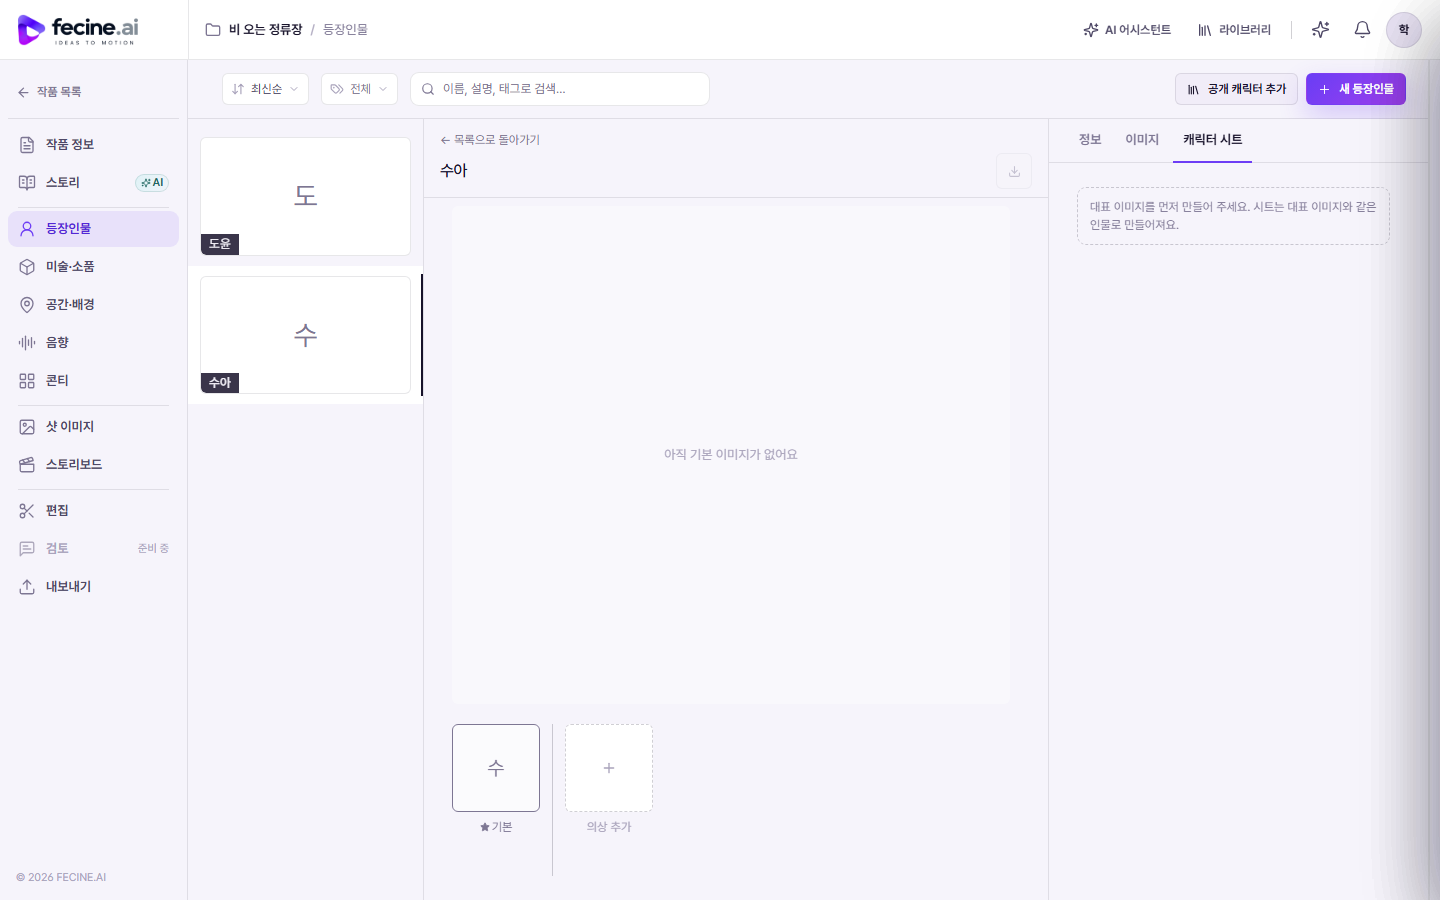
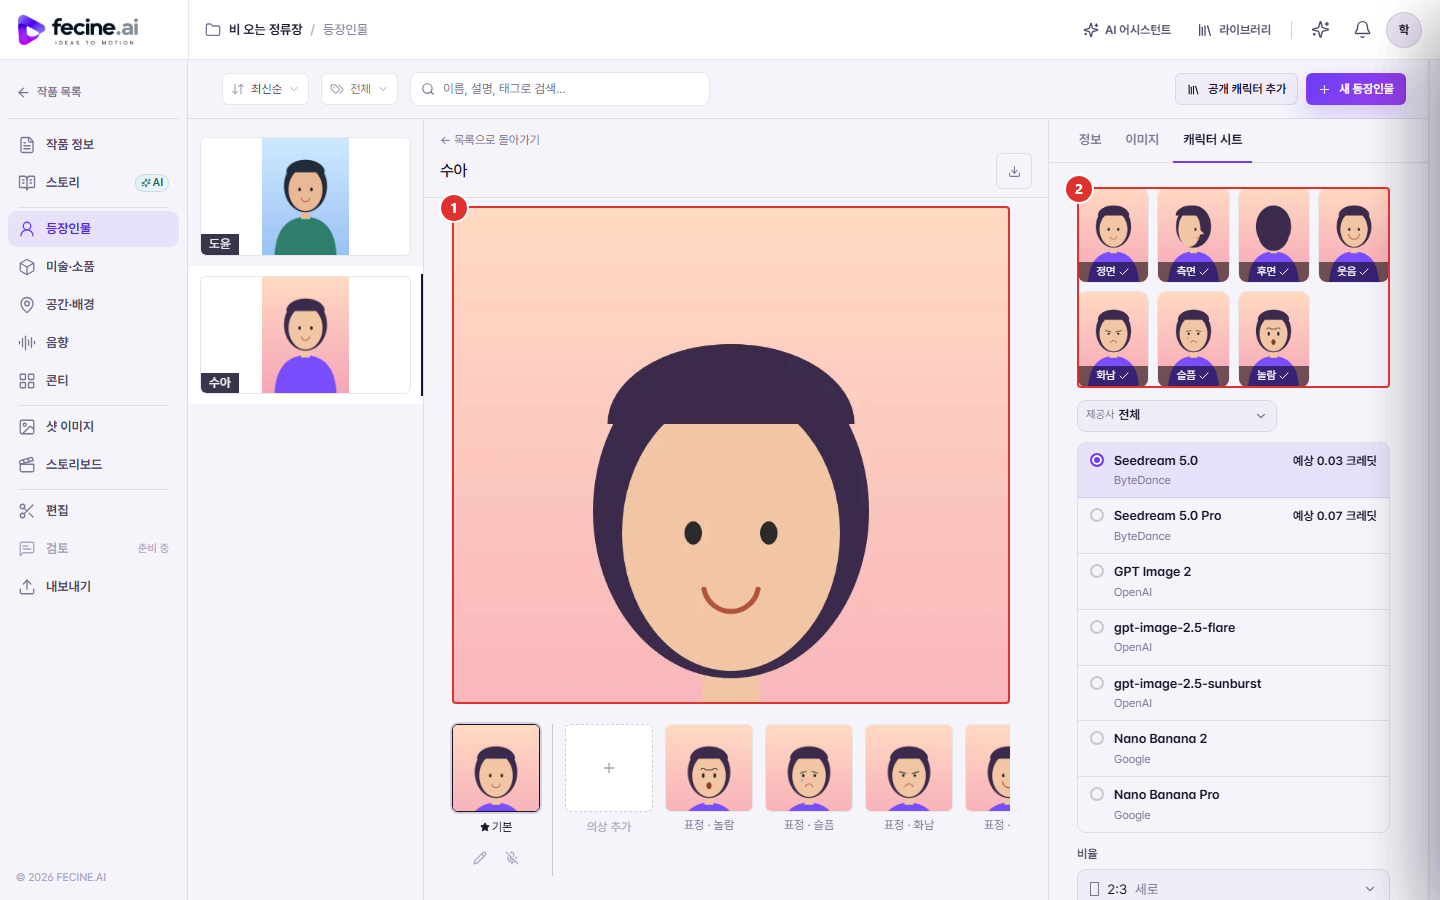
남은 화면 캡처 추가: 채널 게시·AI 작업·캐릭터 시트와 실습 4 프리소스·공개 캐릭터 화면 (#3)
- 30장 채널 게시(위/아래 2장), 32장 AI 작업 패널, 22장 캐릭터 시트(칸이 채워진 화면)
- 실습 4: 프리소스 목록, 원작 상세·읽기, 에피소드·씬 추출 질문 흐름, 진행 상황, 공개 캐릭터 추가 패널·확인 창
- 변경 이력·확인 필요 목록의 캡처 상태 갱신

diff --git a/docs/about/versions.md b/docs/about/versions.md
@@ -28,6 +28,7 @@ FECINE이 업데이트되어 화면이 바뀌면, 바뀐 장과 [부록 A·D](/v
 | 날짜 | 교재 | FECINE 기준 | 변경 |
 | --- | --- | --- | --- |
 | 2026-11-10 | V1 1.0.0-preview | v1.74.0 → v1.82.0 | FECINE 서비스 변경 반영: 스토리 화면 탭(`스토리 편집`·`작품 자료`·`진행 상황`)과 스토리·샷 이미지·스토리보드의 공통 화면(`S#n` 씬 목록, `등장 요소`·`스토리` 탭), AI 어시스턴트의 단계별 요청(`에피소드·씬 추출`·`등장 요소 만들기`·`촬영 설계 만들기`·`씬 추가`), 모델 목록의 가격 순 정렬·경로(Standard·Enterprise·Global)·공식가 할인·모델 팁, 생성 버튼 `생성 · 예상 크레딧`, 새 작품의 작품 설정 패널, 로그인 사이드바 순서, 5개 언어, 크레딧 충전 2단계 패널·FEPAY 결제, 참조 이미지 자동 맞춤, 내보내기 파일 이름·편집 프로젝트 설명. 없어진 기능(대사에서 자막 자동 생성, 다음 프레임 후보 버튼, 옛 결제) 설명 삭제. 새 **실습 4 프리소스 원작으로 만드는 영상**(원작 소설·첫 영상 튜토리얼, 공개 캐릭터를 작품에 추가해 사용) 추가. 옛 화면 캡처는 다시 찍을 때까지 유지 |
+| 2026-11-11 | V1 1.0.0-preview | v1.82.0 | 캡처 보강: 채널 게시(30장), AI 작업(32장), 캐릭터 시트(22장)와 실습 4의 프리소스·공개 캐릭터 추가 화면 추가. 캡처의 요금·구성 비용은 촬영 환경 값이며 본문 요금은 모델·가격 페이지 기준 |
 | 2026-11-06 | V1 1.0.0-preview | v1.38.0 → v1.74.0 | FECINE 서비스 변경 반영: 화면 용어 통일(회차 → 에피소드, 장면 → 씬, 원고 → 씬 대본, AI 구성 → `스토리`의 `✦ AI 자동생성` 탭, 장면 프레임 → 샷 이미지, 작품 안 캐릭터 → 등장인물, 오디오 → 음향), 제작 메뉴 12개와 새 공개 홈·사이드 메뉴, 작품 위키·씬 합치기/나누기/옮기기·연출 노트·등장 요소·앞 씬과 이어짐, 스토리보드의 영상 프롬프트 만들기, `크레딧 · 사용량` 화면, Seedance Global·Kling v3·Wan Global 모델 정보. 없어진 기능(템플릿으로 저장, 내보내기 화면 맞춤, 편집 화면 클립 다운로드, 개인 캐릭터 라이브러리) 설명 삭제. 옛 화면 캡처는 다시 찍을 때까지 유지 |
 | 2026-11-01 | V1 1.0.0-preview | v1.38.0 | 내부 작업 메모 정리: 강사 가이드의 ‘다음 단계(작업 메모)’, 기능 요약·1장의 내부 문서 참조, 캡처 설명의 촬영 환경 메모 삭제. 실제 서비스와 대조할 곳에 ‘확인 필요’ 표시(12·15·18·22·29장, 부록 A.3, 강사 가이드 수업안, 모델 가이드). 모델 페이지의 ‘검증 필요’를 ‘확인 필요’로 통일 |
 | 2026-11-01 | V1 1.0.0-preview | v1.38.0 | 초보자 눈높이 점검 반영: 오탈자 16곳, 처음 나오는 용어 풀이, 화면 진입 경로, 이론 장 예제 안내, 용어집 보강(68개). 없어진 캐릭터 저장 기능 설명 삭제, 음성 파일 형식(MP3·WAV·AAC·OGG, .m4a 불가) 안내. 자주 바뀌는 세부 설정·선택지 목록을 줄이고 ‘FECINE 기능 정리’ 페이지는 비공개로 전환 |

diff --git a/docs/about/verification.md b/docs/about/verification.md
@@ -32,8 +32,8 @@ revised: "2026-11-10"
 
 | 상태 | 캡처 |
 | --- | --- |
-| 교체 완료 (v1.82.0 화면, 2026-11-11 촬영) | 01-01~01-03, 03-01, 04-01, 04-03, 04-04, 05-01, 06-01~06-03, 07-01, 07-02, 08-00, 08-01, 09-01, 09-02, 12-01(대표 이미지 없는 상태), 13-01, 15-01, 16-01, 18-01, 19-01, 20-02, 23-01, 25-01, 27-02, 29-01, 29-02, 31-01 |
-| 캡처 준비 중 (환경 부족으로 못 찍음) | 30-01(채널 설정 필요), 32-01(AI 작업 항목 필요), 실습 4의 공개 캐릭터 추가 화면(공개 캐릭터가 등록된 환경 필요). 실습 4의 프리소스 화면 캡처는 원작 표지·줄거리의 사용 허락을 확인한 뒤 추가 |
+| 교체 완료 (v1.82.0 화면, 2026-11-11 촬영) | 01-01~01-03, 03-01, 04-01, 04-03, 04-04, 05-01, 06-01~06-03, 07-01, 07-02, 08-00, 08-01, 09-01, 09-02, 12-01, 13-01, 15-01, 16-01, 18-01, 19-01, 20-02, 23-01, 25-01, 27-02, 29-01, 29-02, 30-01, 30-01b, 31-01, 32-01 |
+| 캡처 준비 중 | 실습 4의 튜토리얼 2/5 카드(로컬 튜토리얼이 테스트 대본이라 운영 튜토리얼에서 촬영 필요) |
 | 게시 (실제 서비스 화면과 대조 확인 필요) | 01-01 ~ 25-01 중 위를 뺀 나머지 |
 
 ## 4. 생성 결과 (자료 준비 중)

diff --git a/docs/v1/chapters/32-troubleshooting.md b/docs/v1/chapters/32-troubleshooting.md
@@ -46,7 +46,9 @@ result: "문제 해결 카드 (한 장 요약)"
 2. **진행 중**에서 `대기 중 · 경과 시간`, `생성 중 · 경과 시간`을 봅니다. 차례를 기다리는 요청에는 앞선 요청이 끝나면 바로 시작한다는 안내가 보입니다. 필요 없는 작업은 **작업 취소**합니다.
 3. **최근**에서 `실패 · 걸린 시간` 항목을 열고 **오류 세부 정보**를 읽습니다.
 
-**[캡처 32-01]** <Badge type="warning" text="캡처 준비 중" /> AI 작업 — ① 진행 중 ② 최근 ③ 실패 항목 ④ 오류 세부 정보 ⑤ 복사
+**[캡처 32-01]** AI 작업 — ① 진행 중 ② 최근 ③ 실패 항목 ④ 오류 세부 정보 ⑤ 복사
+
+![캡처 32-01](/images/v1/captures/cap-32-01.png)
 
 ::: info NOTE
 **작업 취소**는 요청이 AI 회사(제공자)에 접수되기 전, 또는 접수 여부를 알 수 없을 때만 할 수 있습니다. 제공자가 이미 만들기 시작한 작업은 중간에 멈출 수 없으니 끝날 때까지 기다립니다. 접수 여부를 알 수 없는 영상 요청은 2시간이 지나면 과금 없이 자동으로 종료됩니다.

diff --git a/docs/v1/chapters/22-character-sheets.md b/docs/v1/chapters/22-character-sheets.md
@@ -52,7 +52,7 @@ result: "수아 캐릭터 시트(정면·측면·후면·표정) (결과 22-A)"
 
 - 등장인물의 `보이스`는 23장에서 연결합니다.
 
-**[캡처 12-01]** 캐릭터 시트 탭 — 대표 이미지를 먼저 만들어야 시트 칸이 보입니다(대표 이미지가 없는 상태의 화면)
+**[캡처 12-01]** 캐릭터 시트 탭 — ① 대표 이미지 ② 정면·측면·후면·표정 칸
 
 ![캡처 12-01](/images/v1/captures/cap-12-01.png)
 
